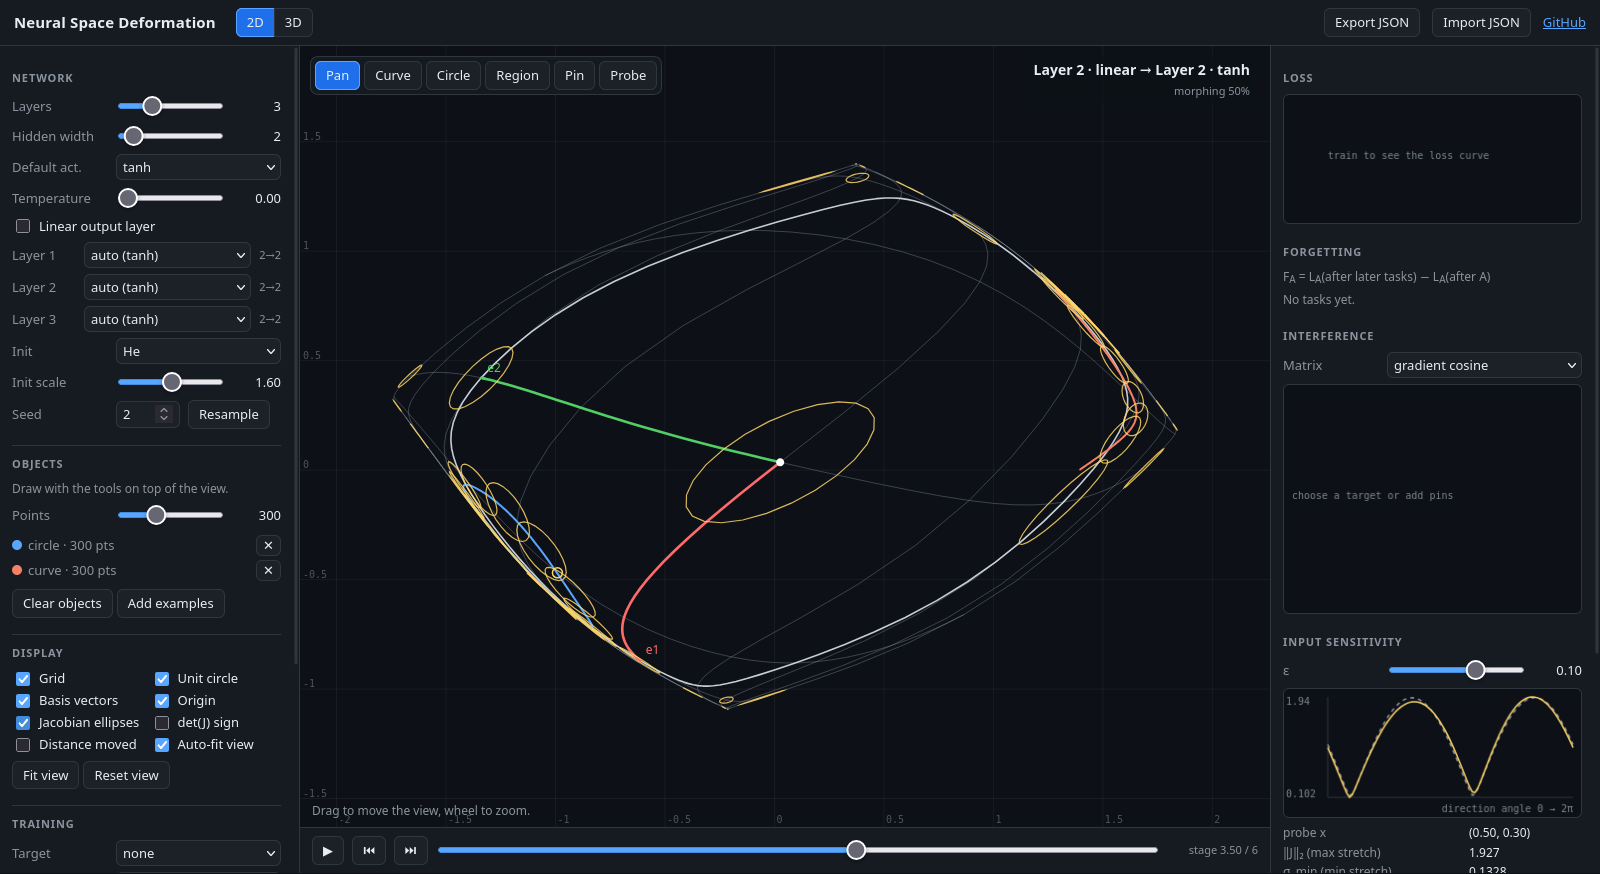
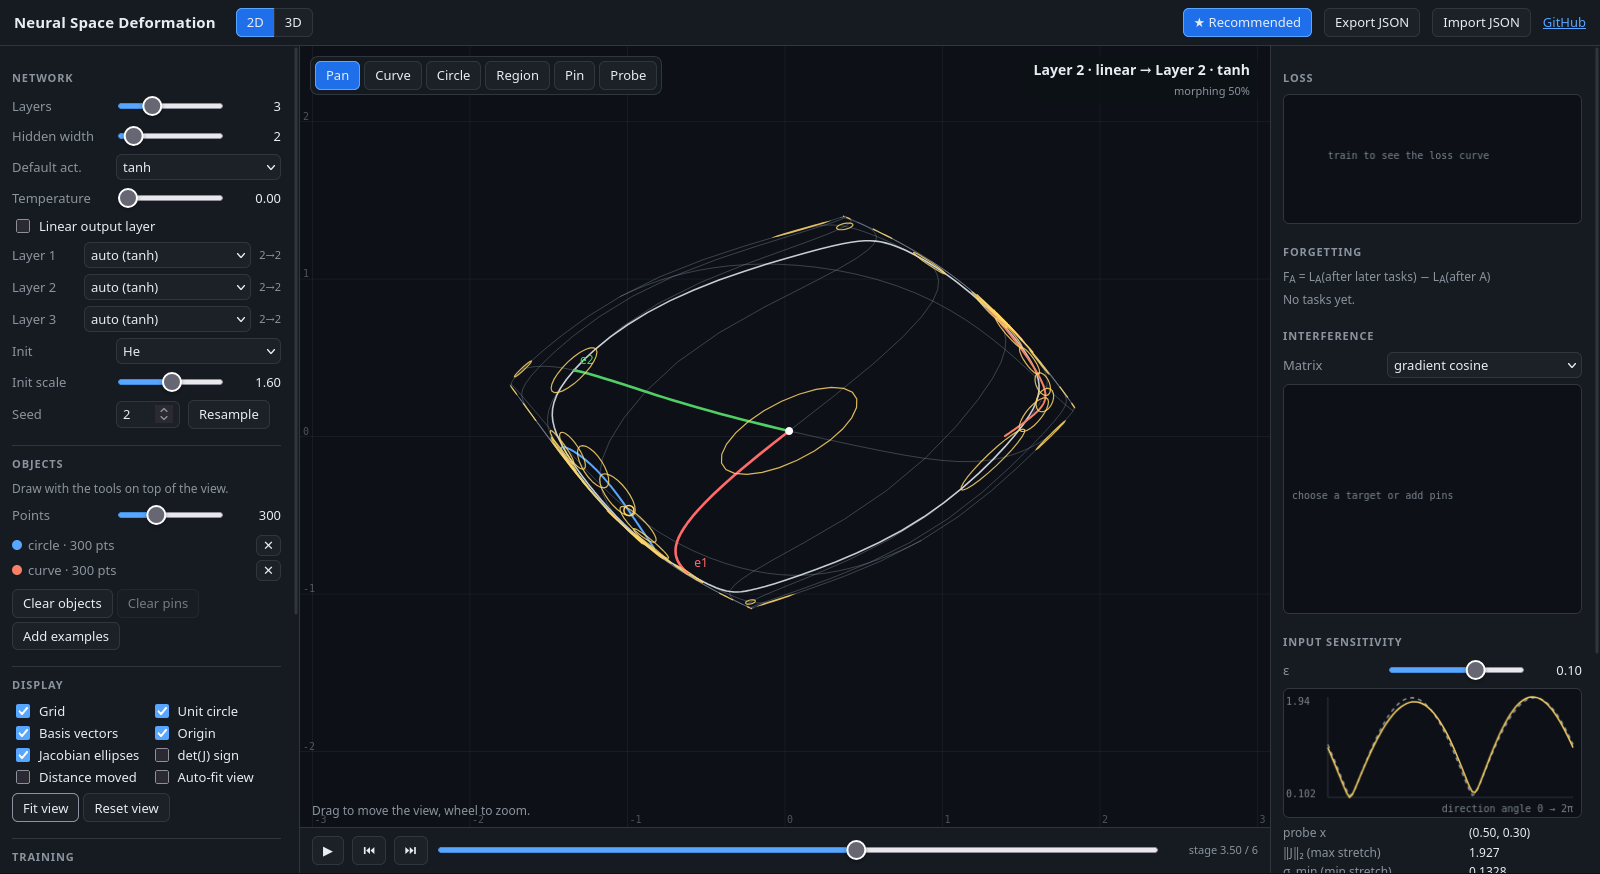
README: tek cümlelik özet, animasyonlu GIF, 'Things to try', yazar bölümü; CITATION.cff; güncel ekran görüntüleri

diff --git a/README.md b/README.md
@@ -1,18 +1,36 @@
 # Neural Space Deformation
 
-An interactive, browser-only visualization of **what a small neural network does geometrically**:
-every layer bends, stretches, folds and squashes space — and backpropagation reshapes those
-deformations while it trains.
+**Neural Space Deformation is an interactive, browser-only visualization of what a small neural network
+(MLP) does geometrically:** every layer bends, stretches, folds and squashes space, and backpropagation
+reshapes those deformations while it trains. It was built by
+[Eren Can Almaz](https://writerforight.github.io), an Electrical Engineering student at RWTH Aachen
+University.
 
-**Live demo:** https://writerforight.github.io/mlp-space-deformation/
+**▶ Live demo: https://writerforight.github.io/mlp-space-deformation/**
 
-No backend, no build step, no ML libraries. The MLP, backpropagation, SGD, Adam, PCA and every
-analysis are written from first principles in plain JavaScript (`src/nn.js`, with comments).
-Three.js (from a CDN) is used only to draw the 3D view.
+![A grid, the unit circle and two drawn objects pushed through a 3-layer tanh network, one sub-step at a time](docs/deformation.gif)
+
+There is no backend, no build step and no machine-learning library. The MLP, backpropagation, SGD,
+Adam, Jacobians, PCA, the neural tangent kernel and the continual-learning methods are written from
+first principles in plain JavaScript (`src/nn.js`, with comments). Three.js (loaded from a CDN) is used
+only to draw the 3D view.
+
+## Things to try
+
+1. **Watch a network bend space.** Press ▶ under the view: the grid, the unit circle and the example
+   objects go through each layer — first the linear map, then the activation.
+2. **Send each class to a point.** Training → Task *send each class to a point*, Data *spirals*, press
+   **★ Recommended**, then **▶ Train**. Blue points are pulled to (1, 0), red points to (−1, 0); at the
+   output the whole plane collapses onto the segment between them.
+3. **Why width matters.** Switch to **3D**, Data *linked rings*, ★ Recommended, train, then set the
+   hidden width to 3 and train again. With width 3 the rings cannot be unlinked without crushing a
+   dimension (the Invertibility panel flags it); with width 4 they separate cleanly.
+4. **Catastrophic forgetting.** Task *pinned points*, drag a few pins, Mode *sequential*, train with
+   anti-forgetting *none*, then with *replay*, *OGD* or *EWC*, and compare the Forgetting table.
 
 ![Forward view: a tanh network half-way through layer 2, with Jacobian ellipses](docs/screenshot-2d.png)
-![Training on two moons: learned decision regions in input space, loss curve and gradient interference](docs/screenshot-train.png)
-![3D view: a sphere and the unit sphere after the first tanh layer](docs/screenshot-3d.png)
+![Training: where the network sends each input (background), loss curve and gradient interference](docs/screenshot-train.png)
+![3D view](docs/screenshot-3d.png)
 
 ## What it shows
 
@@ -164,6 +182,16 @@ Training on task B after task A can raise A's loss again. The app measures
 Layers wider than the view dimension are drawn through their top two (or three) principal
 components. The axis signs are aligned with the previous stage so the animation does not flip, and the
 label shows how much of the variance the projection keeps.
+
+## Author
+
+**Eren Can Almaz** — Electrical Engineering (Elektrotechnik) student at RWTH Aachen University.
+GitHub [@writerforight](https://github.com/writerforight) · website
+[writerforight.github.io](https://writerforight.github.io). Also by the author:
+[Ders Transkript](https://github.com/writerforight/ders-transkript), an offline lecture-transcription app.
+
+If you use this in teaching or writing, please cite it — GitHub's **Cite this repository** button
+(from [`CITATION.cff`](CITATION.cff)) gives the reference.
 
 ## License
 
